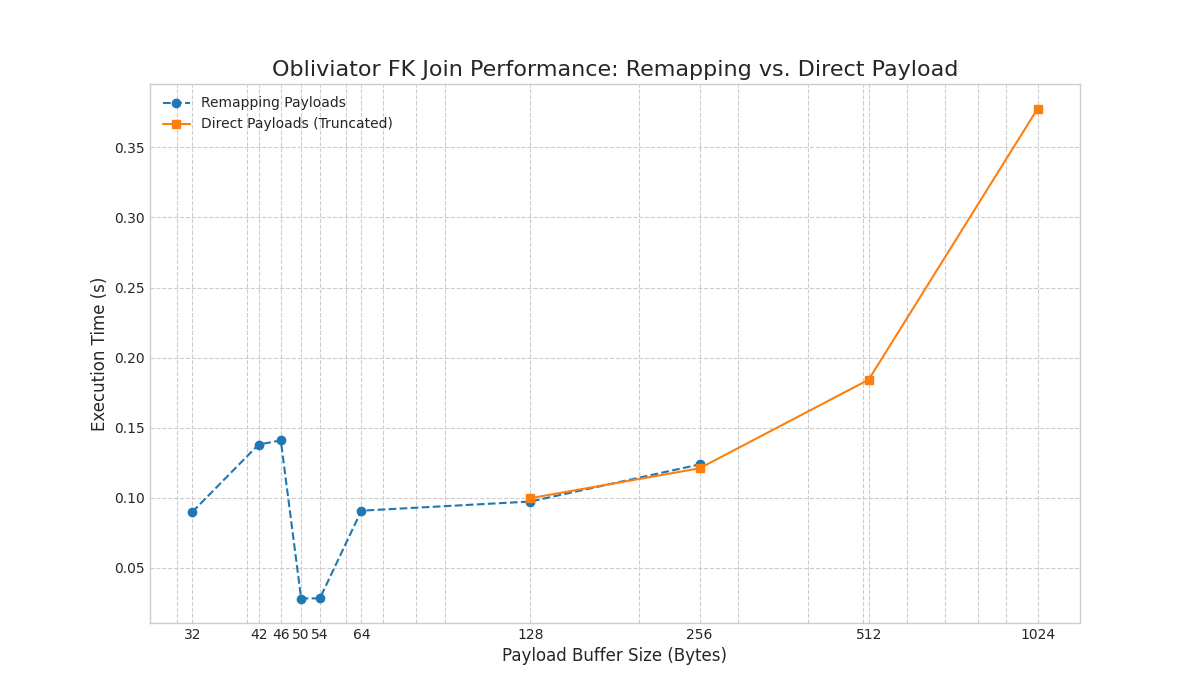
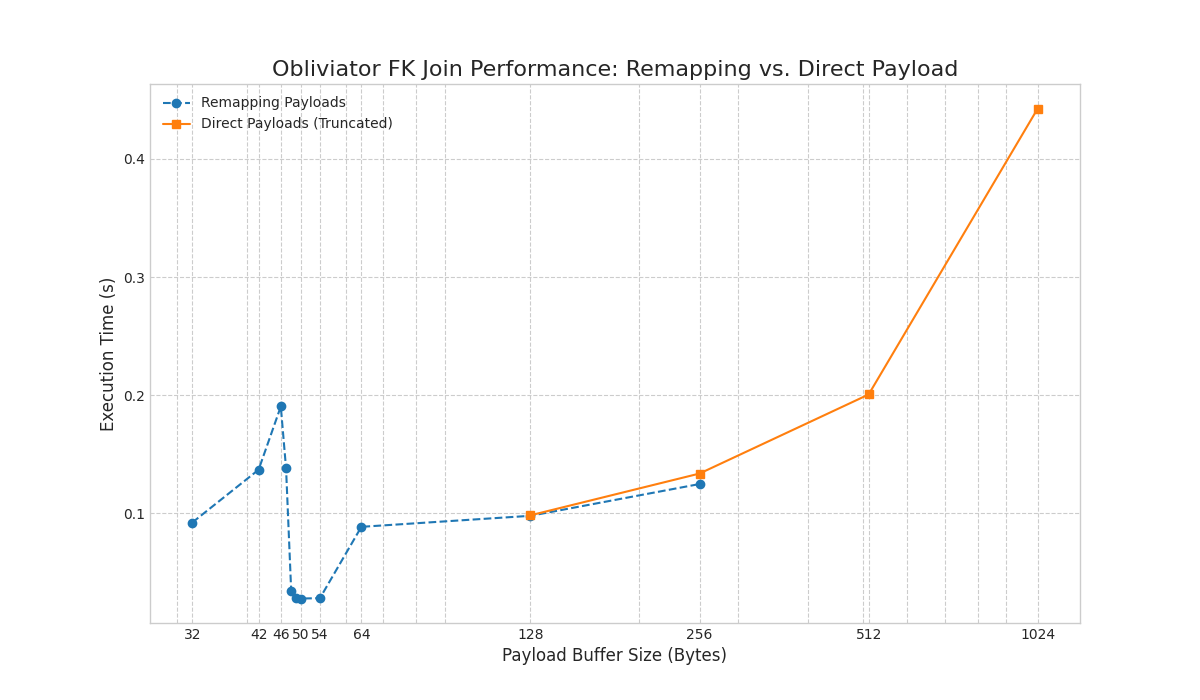
Finding sweet spot

diff --git a/test_payload_fkjoin.py b/test_payload_fkjoin.py
@@ -14,7 +14,8 @@ TABLE1_PATH = "Big_LDBC/Person.csv"
 TABLE2_PATH = "Big_LDBC/Post.csv"
 
 # --- Test Parameters ---
-PAYLOAD_SIZES_REMAPPED = [32, 42, 46, 50, 54, 64, 128, 256]
+PAYLOAD_SIZES_REMAPPED = [32, 42, 46, 47, 48, 49, 50, 54, 64, 128, 256]
+PAYLOAD_REMAPPED_TICKS = [32, 42, 46, 50, 54, 64, 128, 256, 512, 1024]
 PAYLOAD_SIZES_DIRECT = [1024, 512, 256, 128]
 
 def set_data_length(size: int):
@@ -106,7 +107,7 @@ def main():
     ax.grid(True, which="both", ls="--")
 
     # --- NEW: Set explicit x-axis labels ---
-    all_sizes = sorted(list(set(PAYLOAD_SIZES_REMAPPED + PAYLOAD_SIZES_DIRECT)))
+    all_sizes = sorted(list(set(PAYLOAD_REMAPPED_TICKS + PAYLOAD_SIZES_DIRECT)))
     ax.set_xticks(all_sizes)
     ax.get_xaxis().set_major_formatter(mticker.ScalarFormatter())
     # --- End of new code ---

diff --git a/test_payload_filter.py b/test_payload_filter.py
@@ -13,7 +13,8 @@ C_HEADER_PATH = Path(os.path.expanduser("~/obliviator/operator_1/common/elem_t.h
 OPERATOR_SCRIPT = "operator1.py"
 
 # --- Test Parameters ---
-PAYLOAD_SIZES = [32, 42, 46, 50, 54, 64, 128, 256, 512, 1024]
+PAYLOAD_SIZES = [32, 42, 46, 47, 48, 49, 50, 54, 64, 128, 256, 512, 1024]
+PAYLOAD_TICKS = [32, 42, 46, 50, 54, 64, 128, 256, 512, 1024]
 TEST_MESSAGE_ID = "2336463350747" # The ID we know works
 
 def set_data_length(size: int):
@@ -92,7 +93,7 @@ def main():
     ax.grid(True, which="both", ls="--")
 
     # --- NEW: Set explicit x-axis labels ---
-    ax.set_xticks(PAYLOAD_SIZES)
+    ax.set_xticks(PAYLOAD_TICKS)
     ax.get_xaxis().set_major_formatter(mticker.ScalarFormatter())
     # --- End of new code ---
 
